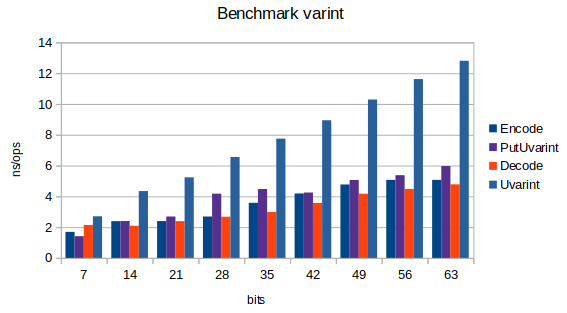
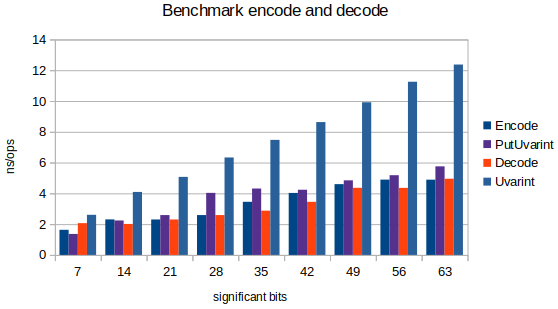
add benchmark of encoding and decoding

Changed region(s): [[0.0, 0.1165, 1.0, 0.9029], [0.2742, 0.0, 0.7007, 0.0583], [0.3656, 0.932, 0.5179, 0.9903]]

diff --git a/README.md b/README.md
@@ -121,3 +121,4 @@ The following graphic shows the time required to encode and decode a
 is usually written once and read many times, it shows that prefix encoding
 is a more efficient encoding than LEB128. 
 
+![benchmark encode and decode](img/benchmarkEncodeAndDecode.png)
